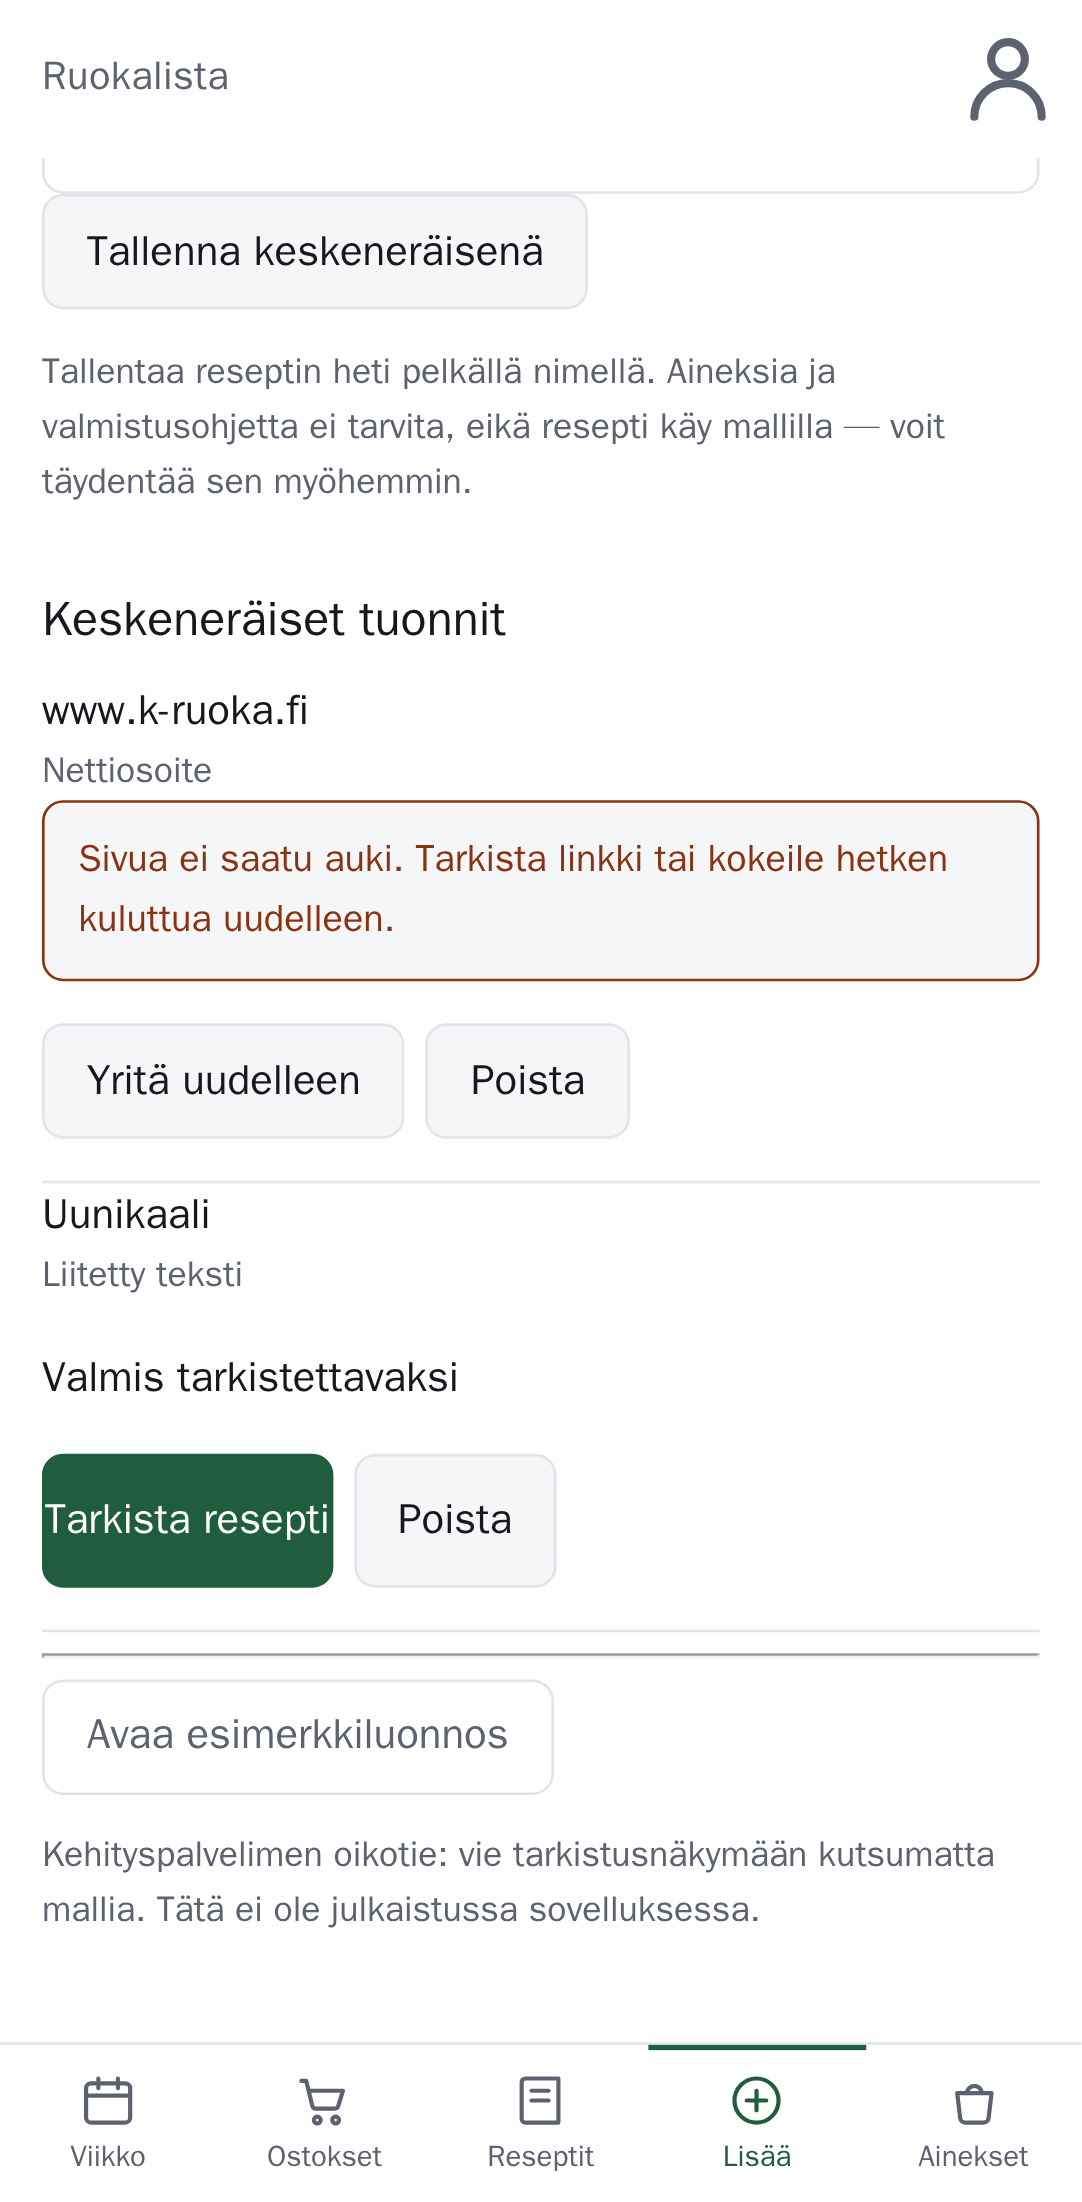
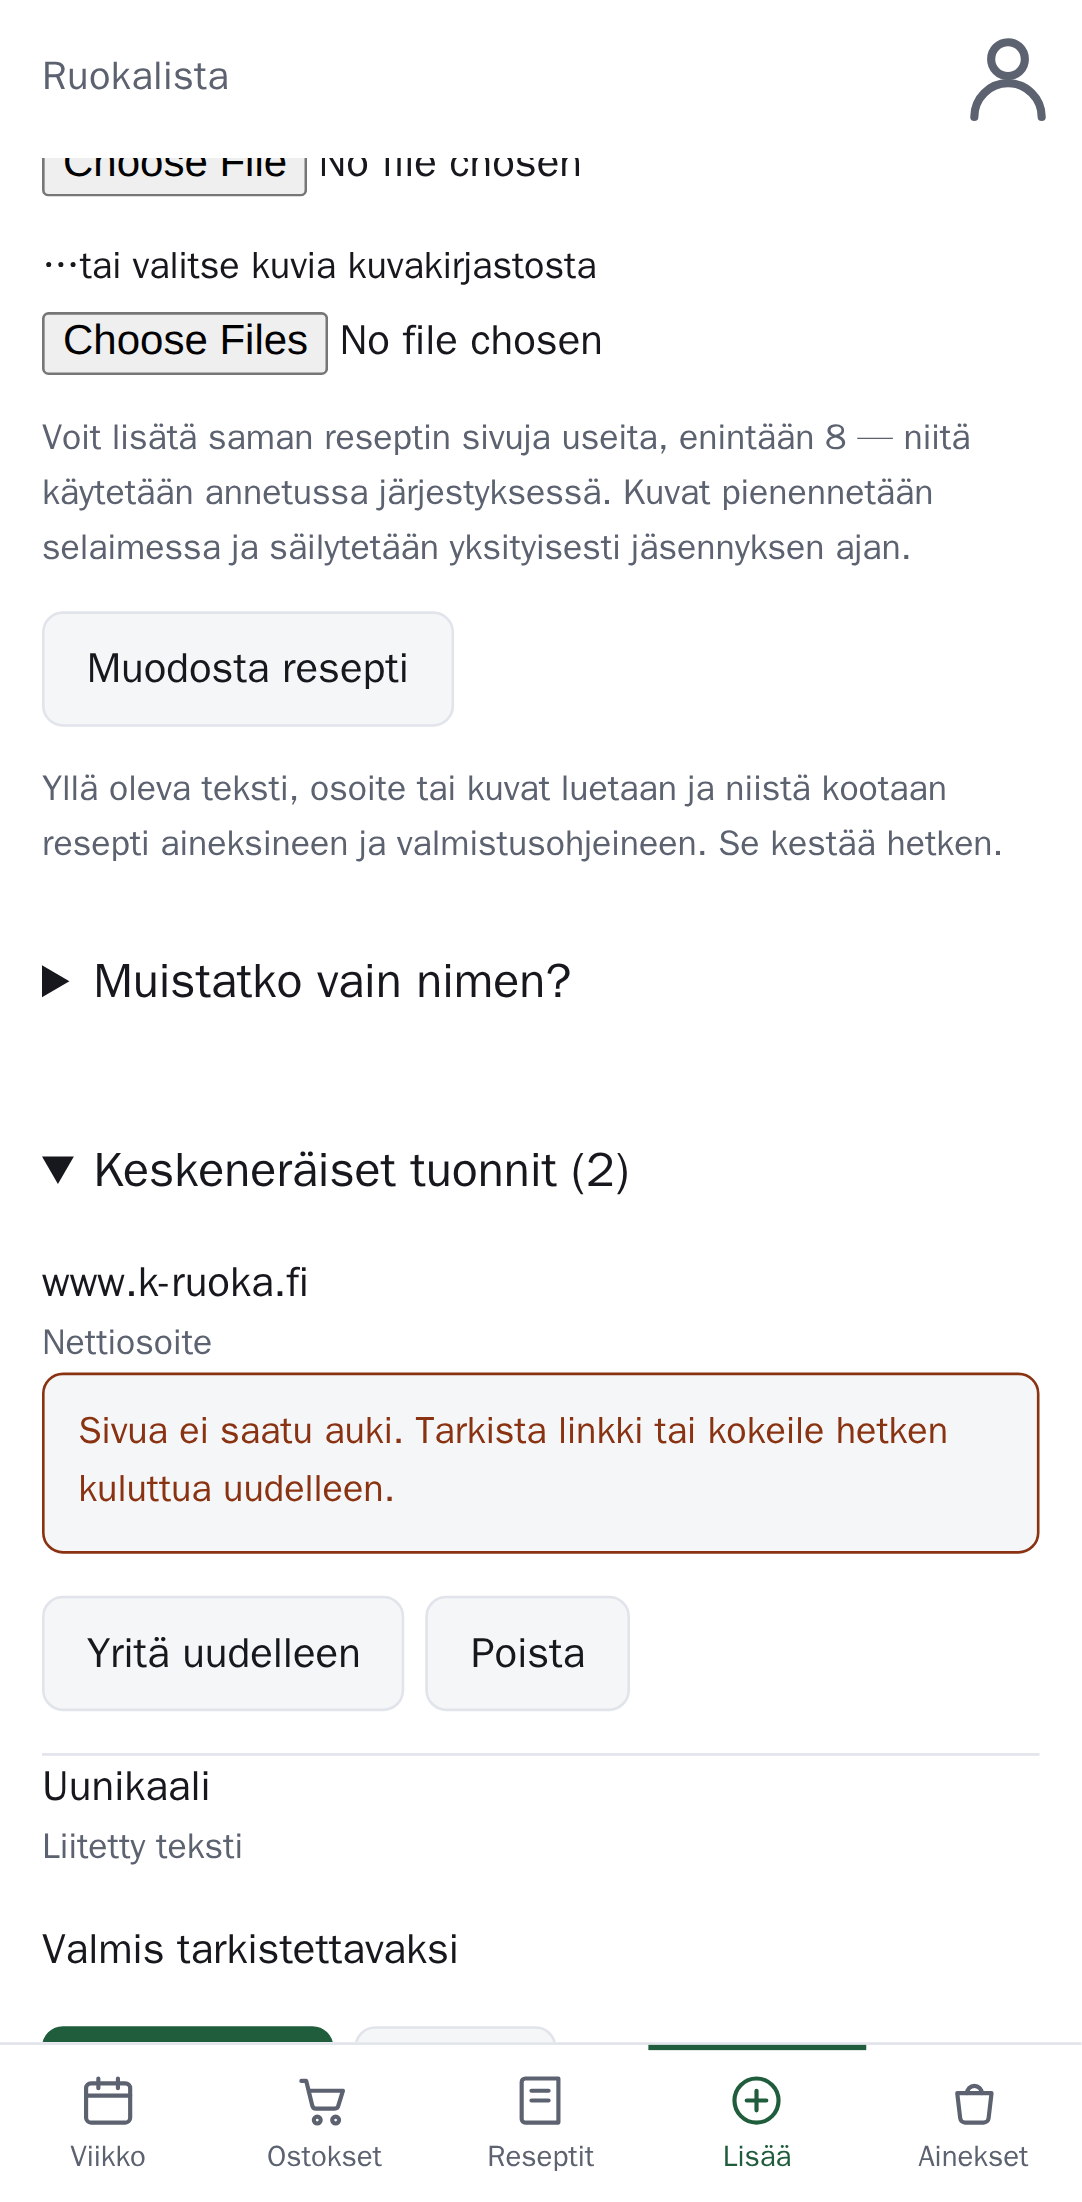
Come back from Poista with the imports fold open
#342 folds the unfinished imports, so a delete that redirected to plain
/intake hid the list the member was clearing. The redirect now carries
?imports, which opens the fold; the tests unfold it first.

diff --git a/tests/intake.spec.ts b/tests/intake.spec.ts
@@ -1290,21 +1290,23 @@ test("a failed or unreviewed import can be thrown away, a running one cannot", a
   );
 
   await page.goto("/intake");
+  await page.getByText(/^Keskeneräiset tuonnit/).click();
   const failed = page.locator('[data-intake-job="discard-failed"]');
   const ready = page.locator('[data-intake-job="discard-ready"]');
   const running = page.locator('[data-intake-job="discard-running"]');
   await expect(running.getByRole("button", { name: "Poista" })).toHaveCount(0);
 
   await failed.getByRole("button", { name: "Poista" }).click();
-  await expect(page).toHaveURL(/\/intake$/);
+  await expect(page).toHaveURL(/\/intake\?imports$/);
   await expect(failed).toHaveCount(0);
 
+  // The list comes back open, so the next one needs no second unfolding.
   await ready.getByRole("button", { name: "Poista" }).click();
   await expect(ready).toHaveCount(0);
 
   const refused = await page.request.post("/intake/imports/discard-running/delete");
   expect(refused.status()).toBe(404);
-  await page.goto("/intake");
+  await page.goto("/intake?imports");
   await expect(running).toBeVisible();
   executeLocalSql("DELETE FROM intake_job WHERE id = 'discard-running'");
 });

diff --git a/src/intake-screens.ts b/src/intake-screens.ts
@@ -438,7 +438,7 @@ export async function intakeScreen(
         : html`<p class="refused">${refusal.message}</p>`}
       ${intakeForm("", STRUCTURE_LABEL, "", target ?? undefined)}
       ${target === null ? quickSaveForm(refusal?.title ?? "", refusal !== undefined) : ""}
-      ${intakeJobs(jobs, confirmed)}
+      ${intakeJobs(jobs, confirmed || url.searchParams.has("imports"))}
       ${target === null && isLocalOrigin(url) ? sampleDraftForm() : ""}
       `,
     "intake",
@@ -604,7 +604,11 @@ export async function deleteIntakeJobForm(
     member.householdId,
   );
   if (!deleted) return intakeNotFound(member);
-  return new Response(null, { status: 303, headers: { Location: "/intake" } });
+  // Back with the imports fold open, so the next stale one is a press away.
+  return new Response(null, {
+    status: 303,
+    headers: { Location: "/intake?imports" },
+  });
 }
 
 /** `GET /intake/imports/:id/review` — reopen the normal review from D1. */

diff --git a/tests/screenshots.spec.ts b/tests/screenshots.spec.ts
@@ -672,7 +672,8 @@ test.describe("signed in", () => {
          CURRENT_TIMESTAMP, CURRENT_TIMESTAMP)`,
     );
     await page.goto("/intake");
-    const section = page.locator('section[aria-labelledby="intake-jobs-title"]');
+    await page.getByText(/^Keskeneräiset tuonnit/).click();
+    const section = page.locator("details", { hasText: "Keskeneräiset tuonnit" });
     await expect(section.getByRole("button", { name: "Poista" })).toHaveCount(2);
     await section.scrollIntoViewIfNeeded();
     await capture(page, { path: `${SHOTS}/127-intake-discard.png` });
